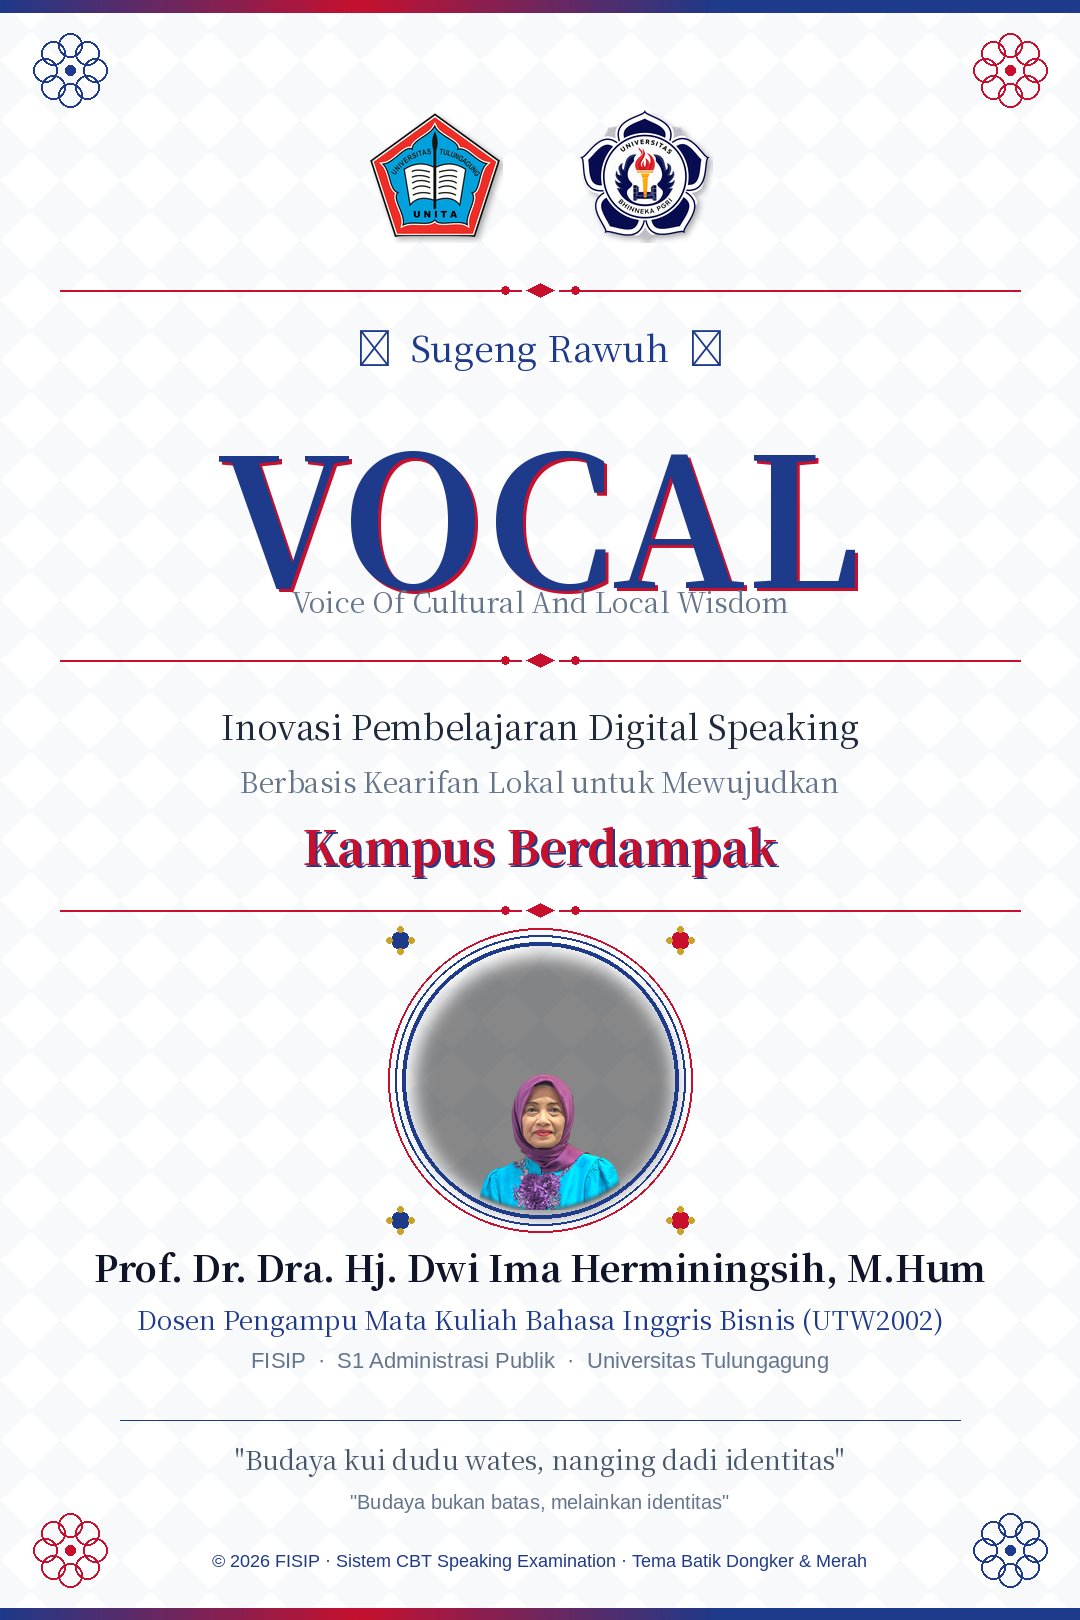
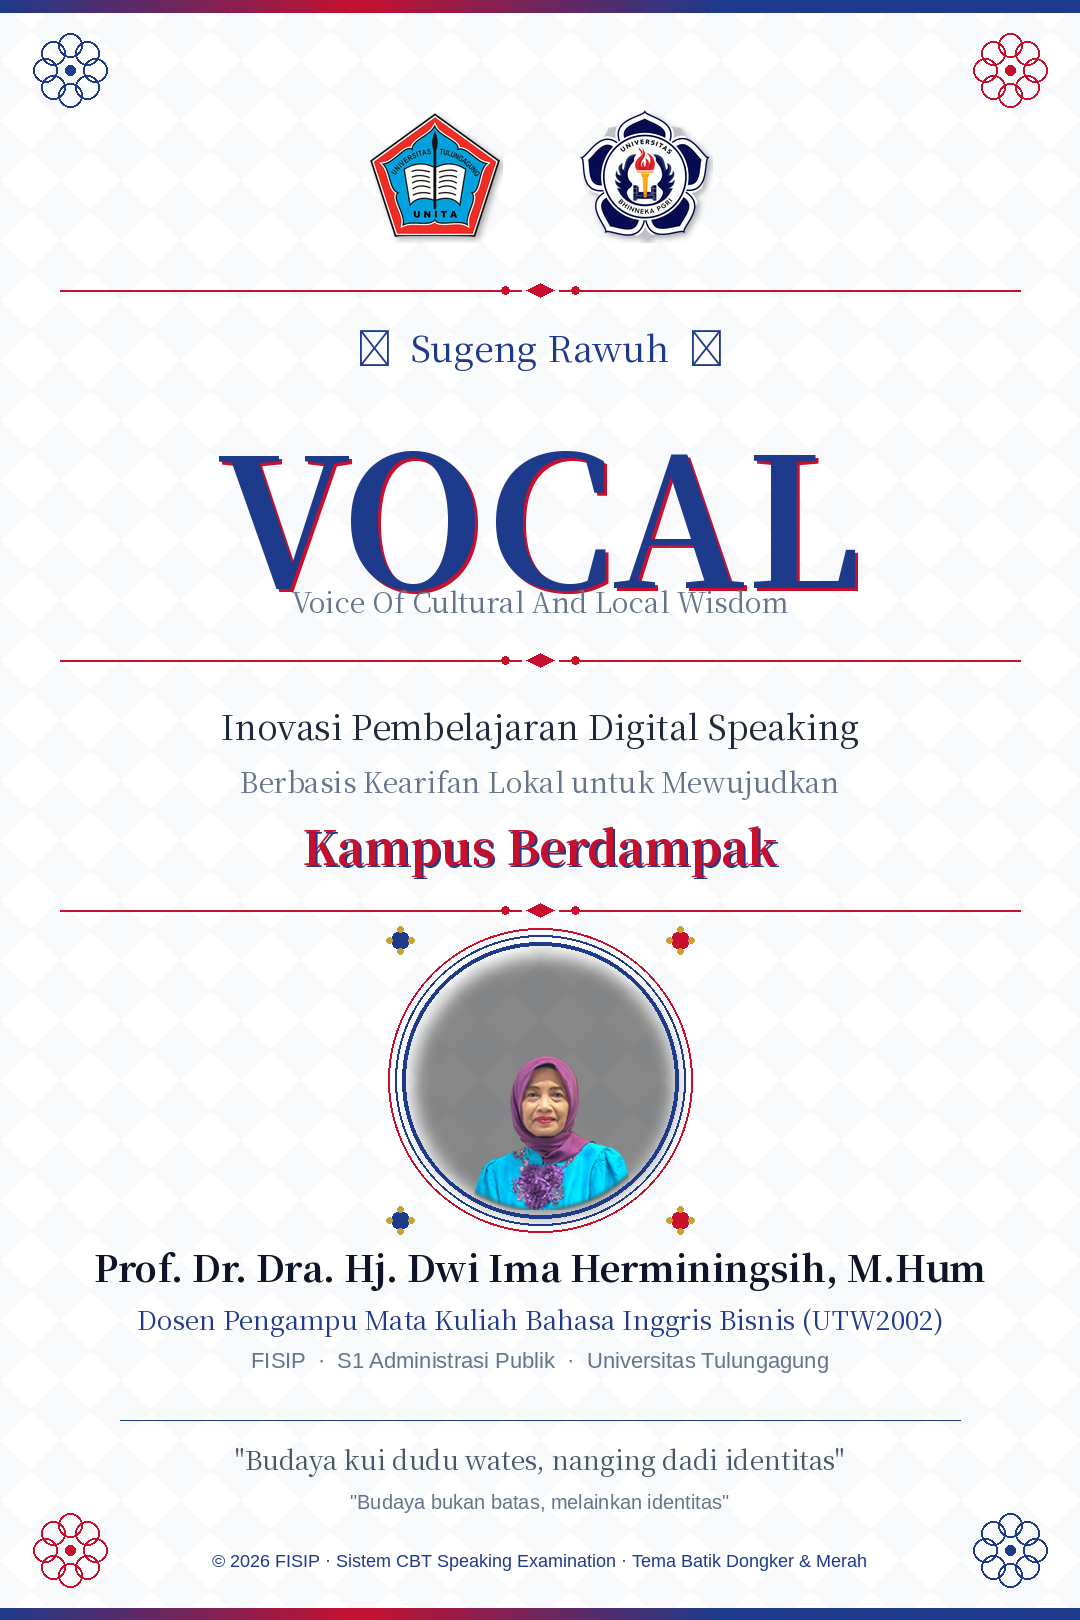
182149bb-29ba-4ac1-966c-002072fd5f16

Changed region(s): [[0.4278, 0.6481, 0.5806, 0.7716]]

diff --git a/src/components/cbt-speaking/splash-screen.tsx b/src/components/cbt-speaking/splash-screen.tsx
@@ -211,15 +211,16 @@ export function SplashScreen({
               <div className="absolute bottom-1/4 left-3 text-merah text-base opacity-70">◆</div>
             </div>
 
-            {/* PHOTO revealed inside gunungan - LARGE close-up */}
+            {/* PHOTO revealed inside gunungan - LARGE portrait close-up */}
             <div className="gunungan-content">
               <div className="relative">
-                {/* Photo container - large close-up with elegant border */}
+                {/* Photo container - portrait oval (taller than wide) for head + shoulders + chest */}
                 <div
-                  className="rounded-full border-4 border-white shadow-2xl overflow-hidden"
+                  className="border-4 border-white shadow-2xl overflow-hidden"
                   style={{
-                    width: "min(240px, 55vw)",
-                    height: "min(240px, 55vw)",
+                    width: "min(220px, 50vw)",
+                    height: "min(300px, 68vw)",
+                    borderRadius: "min(110px, 25vw)",
                     boxShadow: "0 10px 40px rgba(30, 58, 138, 0.25), 0 0 0 2px rgba(200, 16, 46, 0.15)",
                   }}
                 >
